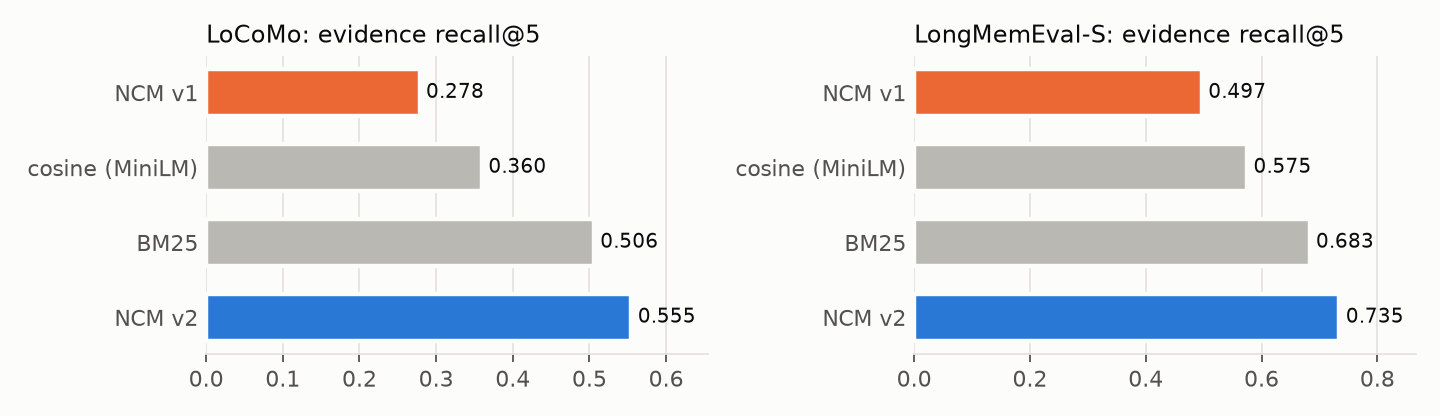
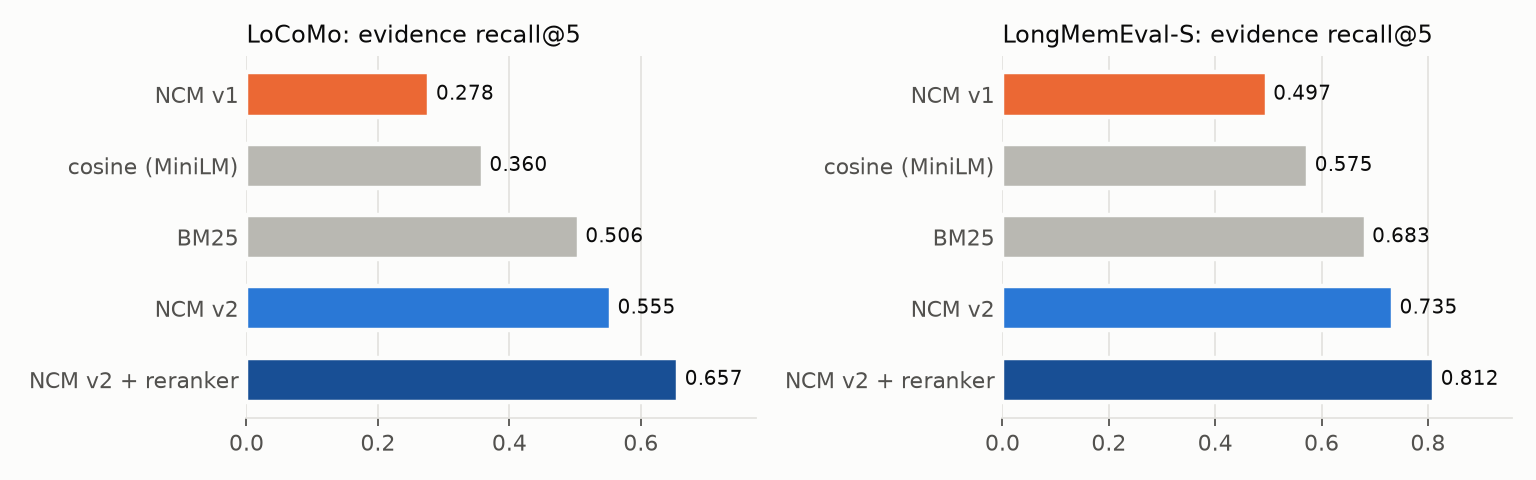
affect: fit valence on conversational text too (GoEmotions AUC 0.88 -> 0.91)
The probe was trained on EmoBank (news, fiction, letters) but reads chat.
Valence is now fitted on EmoBank plus GoEmotions Reddit comments, using
the dataset's own positive/negative/neutral grouping, corpora weighted
equally; arousal stays EmoBank-only. Ridge penalty picked on both dev
splits. Test: EmoBank valence r 0.623 (unchanged), arousal r 0.438
(unchanged), GoEmotions positive-vs-negative AUC 0.884 -> 0.905.

Also: retrieval figure and docs show accuracy mode (reranker).

diff --git a/bench/affect_fit.py b/bench/affect_fit.py
@@ -1,11 +1,20 @@
 """Fit the valence/arousal probe shipped in ncm/affect_minilm.npy, and score every estimator.
 
-EmoBank (Buechel & Hahn 2017, CC-BY-SA 4.0): 10k sentences with human valence and
-arousal ratings on a 1-5 scale. Ridge on MiniLM embeddings: lambda picked on the dev
-split, Pearson r reported on the untouched test split.
+Two human-labelled corpora, MiniLM embeddings, ridge regression:
+  EmoBank (Buechel & Hahn 2017, CC-BY-SA 4.0): 10k sentences (news, fiction, letters)
+    rated for valence and arousal on 1-5.
+  GoEmotions (Demszky et al. 2020, CC-BY 4.0): 58k Reddit comments with emotion labels;
+    its official sentiment grouping gives conversational valence: positive +1,
+    negative -1, neutral 0 (ambiguous or mixed comments are skipped).
+Valence is fitted on both (each corpus weighted equally), arousal on EmoBank only.
+The ridge penalty is picked on the two dev splits; test numbers are reported for both
+the EmoBank-only probe and the combined one, and the better one on the dev splits ships.
 
   python -m bench.affect_fit
-Data: curl -L -o ../ncm-data/emobank/emobank.csv https://raw.githubusercontent.com/JULIELab/EmoBank/master/corpus/emobank.csv
+Data (into ../ncm-data):
+  emobank/emobank.csv  https://raw.githubusercontent.com/JULIELab/EmoBank/master/corpus/emobank.csv
+  goemotions/{train,dev,test}.tsv, emotions.txt, sentiment_mapping.json from
+  https://github.com/google-research/google-research/tree/master/goemotions/data
 """
 
 import csv
@@ -20,46 +29,101 @@ from bench.data import DATA_DIR                          # noqa: E402
 from bench.embed import embed                            # noqa: E402
 
 HERE = os.path.dirname(os.path.abspath(__file__))
+LAMBDAS = (0.3, 1.0, 3.0, 10.0)
 
 
 def r(a, b):
     return float(np.corrcoef(a, b)[0, 1])
 
 
-def main():
-    rows = list(csv.DictReader(open(os.path.join(DATA_DIR, "emobank", "emobank.csv"), encoding="utf-8")))
-    split = {s: [x for x in rows if x["split"] == s] for s in ("train", "dev", "test")}
-    X = {s: embed([x["text"] for x in v], "minilm", "doc", tag="emobank") for s, v in split.items()}
-    Xpre = embed(["user: " + x["text"] for x in split["test"]], "minilm", "doc", tag="emobank")
-    Y = {s: np.array([[float(x["V"]), float(x["A"])] for x in v]) for s, v in split.items()}
-    mu, sd = Y["train"].mean(0), Y["train"].std(0)
-    out = {"n": {s: len(v) for s, v in split.items()}}
+def auc(pos, neg):
+    """P(score of a positive > score of a negative), ties counted half."""
+    allv = np.concatenate([pos, neg])
+    ranks = np.empty(len(allv))
+    ranks[np.argsort(allv, kind="stable")] = np.arange(1, len(allv) + 1)
+    return float((ranks[:len(pos)].sum() - len(pos) * (len(pos) + 1) / 2) / (len(pos) * len(neg)))
 
+
+def ridge(X, y, lam, w=None):
+    w = np.ones(len(X)) if w is None else w
+    Xw = X * w[:, None]
+    return np.linalg.solve(X.T @ Xw + lam * np.eye(X.shape[1]), Xw.T @ y)
+
+
+def emobank():
+    rows = list(csv.DictReader(open(os.path.join(DATA_DIR, "emobank", "emobank.csv"), encoding="utf-8")))
+    out = {}
+    for s in ("train", "dev", "test"):
+        v = [x for x in rows if x["split"] == s]
+        out[s] = (embed([x["text"] for x in v], "minilm", "doc", tag="emobank"),
+                  np.array([[float(x["V"]), float(x["A"])] for x in v]))
+    return out
+
+
+def goemotions():
+    d = os.path.join(DATA_DIR, "goemotions")
+    names = open(os.path.join(d, "emotions.txt"), encoding="utf-8").read().split()
+    groups = json.load(open(os.path.join(d, "sentiment_mapping.json")))
+    sign = {e: 1.0 for e in groups["positive"]} | {e: -1.0 for e in groups["negative"]}
+    sign["neutral"] = 0.0
+    out = {}
+    for s in ("train", "dev", "test"):
+        texts, ys = [], []
+        for line in open(os.path.join(d, f"{s}.tsv"), encoding="utf-8"):
+            text, labels, _ = line.rstrip("\n").split("\t")
+            vals = {sign.get(names[int(i)]) for i in labels.split(",")}
+            if len(vals) == 1 and None not in vals:          # one clear polarity
+                texts.append(text)
+                ys.append(vals.pop())
+        out[s] = (embed(texts, "minilm", "doc", tag="goemotions"), np.array(ys))
+    return out
+
+
+def scores(Wv, Wa, eb, ge, split):
+    X, Y = eb[split]
+    G, g = ge[split]
+    pv = G @ Wv
+    return {"emobank_r_valence": r(X @ Wv, Y[:, 0]), "emobank_r_arousal": r(X @ Wa, Y[:, 1]),
+            "goemotions_auc_pos_vs_neg": auc(pv[g > 0], pv[g < 0]),
+            "goemotions_r_valence": r(pv, g)}
+
+
+def main():
+    eb, ge = emobank(), goemotions()
+    mu, sd = eb["train"][1].mean(0), eb["train"][1].std(0)
+    zv = (eb["train"][1][:, 0] - mu[0]) / sd[0]
+    za = (eb["train"][1][:, 1] - mu[1]) / sd[1]
+    Xe, Xg, yg = eb["train"][0], ge["train"][0], ge["train"][1]
+    out = {"n": {k: {s: len(v[s][0]) for s in v} for k, v in (("emobank", eb), ("goemotions", ge))},
+           "candidates": {}}
     best = None
-    for lam in (0.1, 0.3, 1.0, 3.0, 10.0):
-        A = X["train"].T @ X["train"] + lam * np.eye(X["train"].shape[1])
-        W = np.linalg.solve(A, X["train"].T @ ((Y["train"] - mu) / sd))
-        dev = np.mean([r(X["dev"] @ W[:, i], Y["dev"][:, i]) for i in range(2)])
-        out.setdefault("dev_mean_r", {})[lam] = dev
-        if best is None or dev > best[0]:
-            best = (dev, lam, W)
-    _, lam, W = best
-    pred = X["test"] @ W
-    out["probe"] = {"lambda": lam,
-                    "test_r_valence": r(pred[:, 0], Y["test"][:, 0]),
-                    "test_r_arousal": r(pred[:, 1], Y["test"][:, 1]),
-                    "test_r_valence_with_speaker_prefix": r((Xpre @ W)[:, 0], Y["test"][:, 0]),
-                    "test_r_arousal_with_speaker_prefix": r((Xpre @ W)[:, 1], Y["test"][:, 1])}
+    for name in ("emobank-only", "emobank+goemotions"):
+        for lam in LAMBDAS:
+            Wa = ridge(Xe, za, lam)
+            if name == "emobank-only":
+                Wv = ridge(Xe, zv, lam)
+            else:
+                w = np.concatenate([np.ones(len(Xe)), np.full(len(Xg), len(Xe) / len(Xg))])
+                Wv = ridge(np.vstack([Xe, Xg]), np.concatenate([zv, yg]), lam, w)
+            dev = scores(Wv, Wa, eb, ge, "dev")
+            sel = (dev["emobank_r_valence"] + dev["emobank_r_arousal"] + 2 * (dev["goemotions_auc_pos_vs_neg"] - 0.5)) / 3
+            out["candidates"][f"{name}@{lam}"] = {"dev": dev, "selection": sel}
+            if best is None or sel > best[0]:
+                best = (sel, name, lam, Wv, Wa)
+            if lam == 1.0:        # the previously shipped setting, for comparison on test
+                out.setdefault("test", {})[name] = scores(Wv, Wa, eb, ge, "test")
+    _, name, lam, Wv, Wa = best
+    out["shipped"] = {"probe": name, "lambda": lam, "test": scores(Wv, Wa, eb, ge, "test")}
 
     from ncm.affect import ANCHORS
-    for dim, i in (("valence", 0), ("arousal", 1)):
-        pos = embed(ANCHORS[dim][0], "minilm", "doc", tag="anchors").mean(0)
-        neg = embed(ANCHORS[dim][1], "minilm", "doc", tag="anchors").mean(0)
-        out.setdefault("anchors", {})[f"test_r_{dim}"] = r(X["test"] @ (pos - neg), Y["test"][:, i])
+    axes = []
+    for pos, neg in ANCHORS.values():
+        axes.append(embed(pos, "minilm", "doc", tag="anchors").mean(0) - embed(neg, "minilm", "doc", tag="anchors").mean(0))
+    out["test"]["anchor-sentences"] = scores(axes[0], axes[1], eb, ge, "test")
 
-    np.save(os.path.join(HERE, "..", "ncm", "affect_minilm.npy"), W.astype(np.float32))
-    json.dump(out, open(os.path.join(HERE, "results", "affect-emobank.json"), "w"), indent=1)
-    print(json.dumps(out, indent=1))
+    np.save(os.path.join(HERE, "..", "ncm", "affect_minilm.npy"), np.stack([Wv, Wa], axis=1).astype(np.float32))
+    json.dump(out, open(os.path.join(HERE, "results", "affect.json"), "w"), indent=1)
+    print(json.dumps({"test": out["test"], "shipped": out["shipped"]}, indent=1))
 
 
 if __name__ == "__main__":

diff --git a/bench/plots.py b/bench/plots.py
@@ -17,6 +17,7 @@ OUT = os.path.join(HERE, "..", "docs", "img")
 
 SURFACE, INK, MUTED_INK, GRID = "#fcfcfb", "#0b0b0b", "#52514e", "#e4e3df"
 BASE, V1, V2 = "#b9b8b2", "#eb6834", "#2a78d6"     # baselines gray, v1 orange, v2 blue
+V2X = "#184f95"                                      # v2 accuracy mode: darker step of the same blue
 plt.rcParams.update({"font.size": 10, "axes.edgecolor": GRID, "axes.labelcolor": MUTED_INK,
                      "xtick.color": MUTED_INK, "ytick.color": MUTED_INK, "text.color": INK,
                      "figure.facecolor": SURFACE, "axes.facecolor": SURFACE})
@@ -43,8 +44,8 @@ def hbars(ax, labels, values, colors, title, fmt="{:.3f}"):
 
 def retrieval():
     arms = [("NCM v1", "ncm-v1", V1), ("cosine (MiniLM)", "dense", BASE), ("BM25", "bm25", BASE),
-            ("NCM v2", "ncm-v2", V2)]
-    fig, axes = plt.subplots(1, 2, figsize=(9, 2.6))
+            ("NCM v2", "ncm-v2", V2), ("NCM v2 + reranker", "ncm-v2-rerank", V2X)]
+    fig, axes = plt.subplots(1, 2, figsize=(9.6, 3.0))
     for ax, (ds, title) in zip(axes, (("locomo", "LoCoMo"), ("longmemeval", "LongMemEval-S"))):
         m = load(f"retrieval-{ds}-minilm.json")["methods"]
         hbars(ax, [a for a, _, _ in arms], [m[k]["all"]["recall@5"] for _, k, _ in arms],
@@ -56,7 +57,8 @@ def retrieval():
 def qa():
     d = load("qa-locomo-qwen2.5_3b.json")["arms"]
     arms = [("no memory", "none", BASE), ("NCM v1", "ncm-v1", V1), ("cosine (MiniLM)", "dense", BASE),
-            ("NCM v2 recall", "ncm-v2", V2), ("NCM v2 context()", "ncm-v2-context", V2)]
+            ("NCM v2 recall", "ncm-v2", V2), ("NCM v2 context()", "ncm-v2-context", V2),
+            ("NCM v2 + reranker", "ncm-v2-rerank", V2X)]
     arms = [a for a in arms if a[1] in d]
     fig, ax = plt.subplots(figsize=(6.4, 2.7))
     hbars(ax, [a for a, _, _ in arms], [d[k]["f1"] for _, k, _ in arms], [c for _, _, c in arms],

diff --git a/ncm/affect.py b/ncm/affect.py
@@ -1,9 +1,11 @@
 """Valence and arousal read off the embedding the store already has: no extra model call.
 
-For the default MiniLM model a linear probe fitted on EmoBank human ratings is used
-(test Pearson r: valence 0.62, arousal 0.44; see bench/affect_fit.py). Any other
-embedder falls back to anchor sentences (valence r 0.45, arousal r 0.16 with MiniLM).
-Outputs are roughly z-scores: 0 is an emotionally average sentence, +-1 is strong.
+For the default MiniLM model a linear probe is used, fitted on human labels: EmoBank
+ratings (valence and arousal) plus GoEmotions Reddit comments (valence). Test scores:
+valence r 0.62 on EmoBank and AUC 0.91 positive-vs-negative on GoEmotions, arousal r 0.44
+(bench/affect_fit.py). Other embedders fall back to anchor sentences (with MiniLM:
+valence r 0.45 / AUC 0.85, arousal r 0.16). Outputs are roughly z-scores: 0 is an
+emotionally average sentence, +-1 is strong. It reads tone, and topic words can fool it.
 """
 
 import os

diff --git a/docs/RESULTS.md b/docs/RESULTS.md
@@ -23,6 +23,7 @@ them. A hit is a turn annotated as evidence for the answer.
 | cosine (MiniLM) | 0.360 | 0.445 | 0.304 | 0.291 | 0.575 | 0.735 | 0.539 | 0.543 |
 | BM25 | 0.506 | 0.578 | 0.442 | 0.429 | 0.683 | 0.794 | 0.650 | 0.657 |
 | **NCM v2** | **0.555** | **0.643** | **0.480** | **0.461** | **0.735** | **0.853** | **0.696** | **0.702** |
+| **NCM v2 + reranker** (accuracy mode) | **0.657** | **0.711** | **0.611** | **0.618** | **0.812** | **0.903** | **0.759** | **0.752** |
 
 NCM v2 minus cosine, R@5: LoCoMo **+0.195** [0.170, 0.220], LongMemEval **+0.159**
 [0.126, 0.192]. Minus v1: **+0.276** [0.251, 0.302] and **+0.238** [0.202, 0.274].
@@ -42,6 +43,15 @@ v2 is ahead of v1 and of cosine in **every question category** on both datasets:
 | LongMemEval knowledge-update (72) | 0.528 | 0.583 | **0.812** |
 | LongMemEval multi-session (125) | 0.359 | 0.442 | **0.588** |
 | LongMemEval temporal-reasoning (132) | 0.414 | 0.457 | **0.698** |
+
+### Accuracy mode: a cross-encoder over the top 30
+
+`Memory(reranker=True)` re-scores NCM's top 30 with cross-encoder/ms-marco-MiniLM-L-6-v2
+(22M parameters) and keeps the reranker's order. R@5: LoCoMo +0.102 [0.085, 0.120],
+LongMemEval +0.077 [0.052, 0.103]; MRR +0.157 and +0.049. Fusing the reranker's score
+with the first-stage score did worse than the reranker alone (0.626 and 0.802).
+Cost: 92 ms (LoCoMo) and 222 ms (LongMemEval, long assistant turns) per query on the
+laptop GPU while it was shared with Ollama, against under 1 ms for the default path.
 
 ### What each part contributes (ablations, R@5 / nDCG@10)
 
@@ -103,18 +113,23 @@ PERSONA_SECTION
 
 ## 4. Affect
 
-The valence/arousal probe is a 384x2 ridge regression on MiniLM embeddings,
-trained on EmoBank (Buechel and Hahn 2017; 8,062 train, 1,000 dev for the ridge
-penalty, 1,000 test). Pearson r on the test split:
+The valence/arousal probe is a 384x2 ridge regression on MiniLM embeddings. Valence
+is fitted on EmoBank (Buechel and Hahn 2017; ratings of news, fiction and letters) plus
+GoEmotions (Demszky et al. 2020; Reddit comments, using the dataset's own
+positive / negative / neutral grouping), each corpus weighted equally; arousal on
+EmoBank alone. The ridge penalty was picked on both dev splits. Test splits:
 
-| estimator | valence | arousal |
-|---|---|---|
-| v1 `AutoStateTracker` anchor words | 0.42 | 0.10 |
-| v2 anchor sentences (fallback for non-MiniLM embedders) | 0.45 | 0.16 |
-| **v2 probe (default)** | **0.62** | **0.44** |
-| v2 probe on "user: <text>" (how the store embeds) | 0.63 | 0.43 |
+| estimator | EmoBank valence r | EmoBank arousal r | GoEmotions AUC (positive vs negative) |
+|---|---|---|---|
+| v1 `AutoStateTracker` anchor words | 0.42 | 0.10 | - |
+| v2 anchor sentences (fallback for non-MiniLM embedders) | 0.45 | 0.16 | 0.855 |
+| v2 probe, EmoBank only | 0.62 | 0.44 | 0.884 |
+| **v2 probe, EmoBank + GoEmotions (shipped)** | **0.62** | **0.44** | **0.905** |
 
-v1's arousal dimension was essentially noise. Affect is not used for ranking:
+Embedding with the store's "user: " prefix changes EmoBank r by under 0.01.
+v1's arousal dimension was essentially noise. The probe reads tone but topic words
+can fool it: on the v1 sample files, "I feel overwhelmed trying to memorize dozens of
+formulas" scores slightly positive. Treat `mood()` as a soft, relative signal. Affect is not used for ranking:
 Phase 2 showed it carries no retrievable signal (see HISTORY.md). It sets
 salience, so emotional memories survive capacity eviction longer, and feeds `mood()`.
 

diff --git a/README.md b/README.md
@@ -31,7 +31,8 @@ Relevant memories (oldest first):
 - **Finds the right memory.** Hybrid dense + keyword ranking with a
   conversational contiguity prior. On two public long-conversation benchmarks it
   retrieves the evidence **1.5-2x as often as NCM v1** and **28-54% more often
-  than plain vector search** ([results](docs/RESULTS.md)).
+  than plain vector search**. Add one line, `Memory(reranker=True)`, for an
+  accuracy mode that reaches **2.4x v1** ([results](docs/RESULTS.md)).
 - **Better answers from the same LLM.** On LoCoMo, a 3B local model answers with
   F1 **RESULT_QA_V2** from NCM's memories, against **RESULT_QA_DENSE** from vector
   search and **RESULT_QA_V1** from NCM v1.
@@ -100,7 +101,7 @@ Every piece was kept only if it measured well. What was dropped, and why, is in
 
 | call | does |
 |---|---|
-| `Memory(path=None, embedder=None, config=None)` | open or create a memory |
+| `Memory(path=None, embedder=None, config=None, reranker=None)` | open or create a memory; `reranker=True` turns on accuracy mode |
 | `add(text, speaker="user", time=None, meta=None)` | store one utterance, returns its id |
 | `add_many(texts, speakers, times, metas)` | batched, one embedding call |
 | `add_messages(messages)` | OpenAI-style `[{"role", "content"}]` |
@@ -117,6 +118,11 @@ name (`Memory(embedder="BAAI/bge-small-en-v1.5")`) or any callable
 `fn(list[str]) -> array (n, d)`, such as an API client. An object with a `name`
 attribute and `__call__(texts, query=False)` can embed queries differently.
 
+**Accuracy mode.** `Memory(reranker=True)` re-scores the top 30 hits with a small
+cross-encoder (ms-marco-MiniLM-L-6-v2, 22M parameters): recall@5 +0.10 on LoCoMo
+and +0.08 on LongMemEval, for ~0.1-0.2 s per query on a laptop GPU. Any
+`fn(query, texts) -> scores` works as a reranker too.
+
 **Config** (`ncm.Config`):
 
 | field | default | meaning |
@@ -127,6 +133,7 @@ attribute and `__call__(texts, query=False)` can embed queries differently.
 | `lift_width` | 1.0 | how far the lift reaches, in turns |
 | `session_gap` | 1800 | seconds of silence that start a new session |
 | `max_items` | 0 | capacity; 0 = unlimited |
+| `rerank_top` | 30 | with a reranker: how many first-stage hits it re-scores |
 | `decay` | 0.5 | ACT-R decay for forgetting |
 
 ## Results
@@ -156,9 +163,9 @@ python -m bench.speed && python -m bench.plots
 ## Limits
 
 - Benchmarks are English, and the persona and question detectors are English regexes.
-- The affect probe reads valence well (r 0.62 against human ratings on EmoBank)
-  and arousal moderately (r 0.44). It was trained on news and fiction, so treat
-  `mood()` as a soft signal.
+- The affect probe reads valence well (r 0.62 against human ratings, AUC 0.91 on
+  Reddit comments) and arousal moderately (r 0.44). Topic words can fool it, so
+  treat `mood()` as a soft, relative signal.
 - Contradictions are not resolved inside the memory: `context()` dates (in UTC) and
   orders memories so the reader can tell which statement is newer.
 - More context is not better for small models: with a 3B reader, fewer and better
